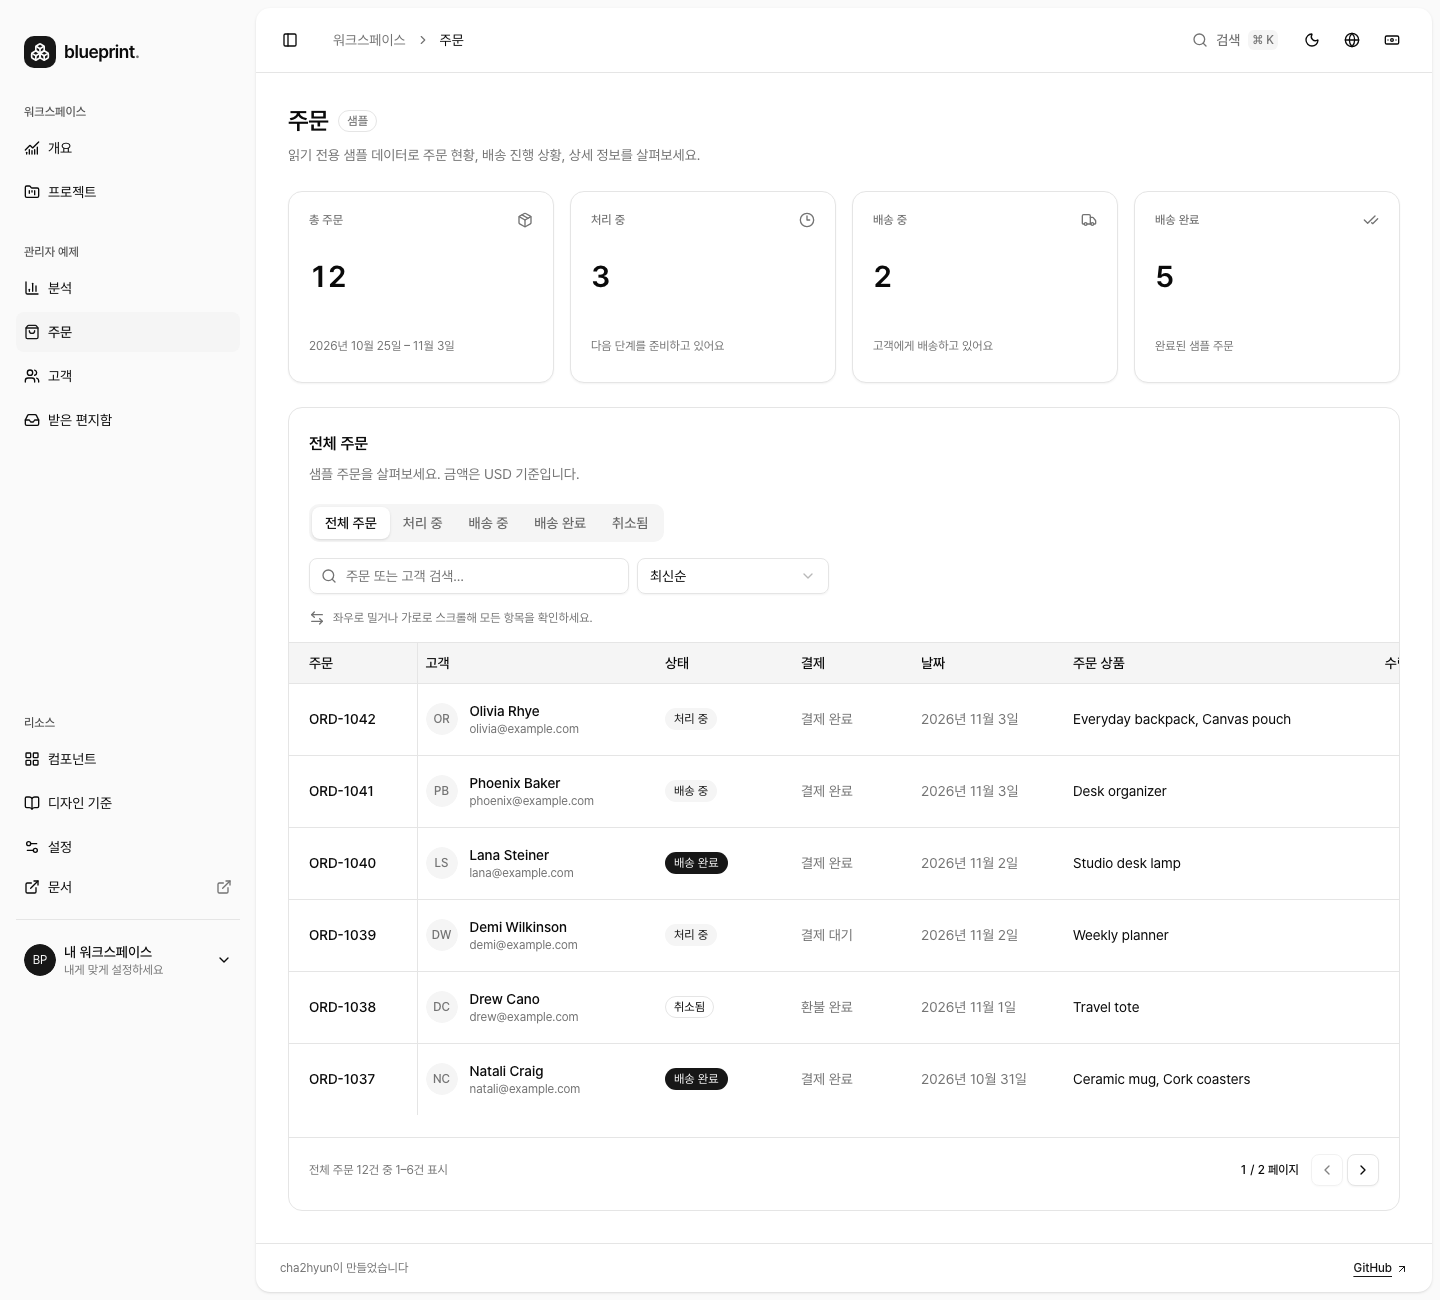
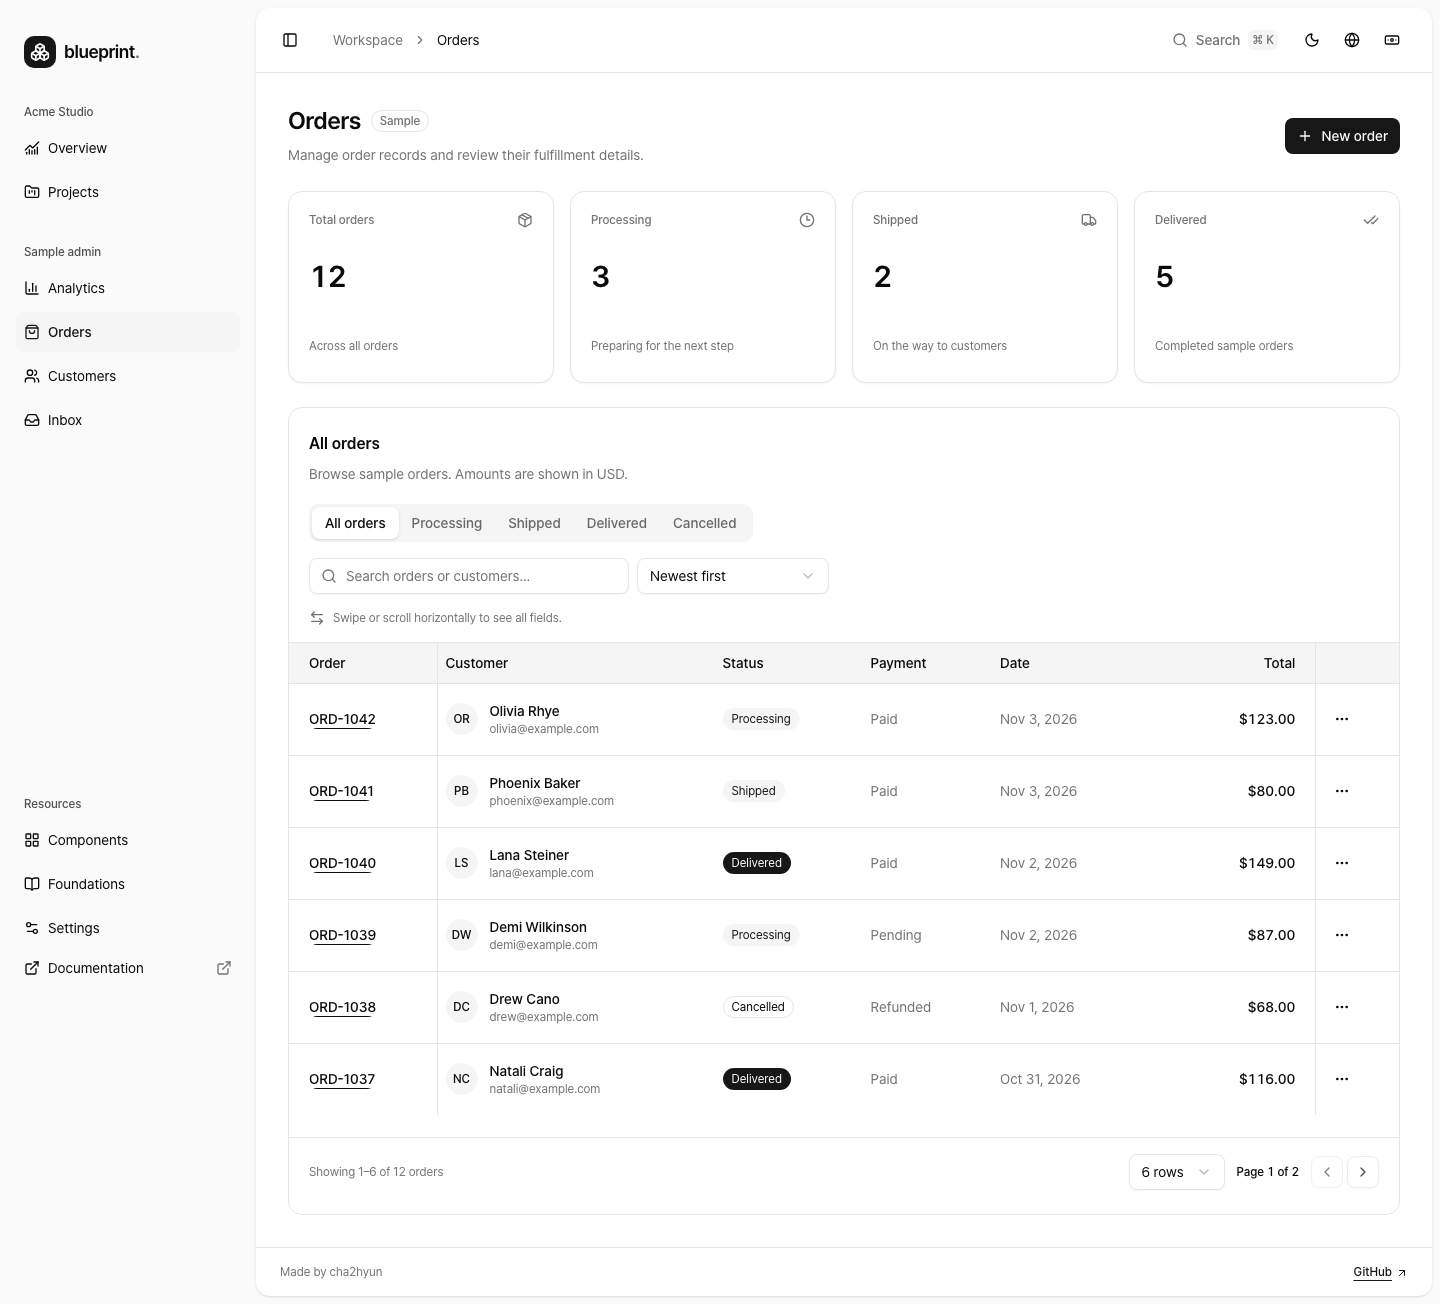
test(admin): approve reviewed visuals and record validation

diff --git a/docs/plans/blueprint-quality-improvements.md b/docs/plans/blueprint-quality-improvements.md
@@ -1,6 +1,6 @@
 # 작업 계획: 관리자 blueprint의 업무 흐름과 검증 공백 개선
 
-상태: 진행
+상태: 구현 완료. 최신 원격 통합 검증은 [PR #37의 checks](https://github.com/cha2hyun/boilerplate/pull/37/checks)를 기준으로 한다.
 
 ## 문제와 완료 조건
 
@@ -18,7 +18,7 @@
 ## 변경 경계
 
 - 영향 레이어/슬라이스: app, pages/orders·customers·overview·projects, widgets/app-shell·project-table, entities, shared UI/config/API, 검사 스크립트와 CI.
-- 공개 API/환경 변수/저장 형식 변경: 목록 응답 유일성·Traffic 정규화·불확실성 처리 강화. 기존 저장 키 값은 보존하고 구성 위치를 정리한다. 상세 ID/페이지 크기는 검증된 URL 상태로 추가한다. 추가적인 데모 업무 기록 계약은 구현과 함께 별도 기록한다.
+- 공개 API/환경 변수/저장 형식 변경: 목록 응답 유일성·Traffic 정규화·불확실성 처리 강화. 기존 저장 키 값은 보존하고 구성 위치를 정리한다. 상세 ID/페이지 크기는 검증된 URL 상태로 추가한다. 주문에는 상태·결제 변경 이력 최대 100개를 추가하며 이전 데이터의 누락 이력은 빈 배열로 해석한다. 사용자·기기 간 동기화나 신뢰할 수 있는 운영 감사 이력은 아니다.
 - 오류/빈 상태/취소/접근성 처리: 결과가 불확실한 저장 재조회, 없는 상세 ID 복구, 키보드/초점 복원, 모바일 요약 접기, 실제 차트 텍스트 대비, cold/stale/empty 응답 회귀를 포함한다.
 - 마이그레이션/롤백 (필요할 때): 저장 키 값은 바꾸지 않는다. 새로운 저장 필드는 이전 저장 데이터를 검증·복원할 수 있게 설계하며 데이터 삭제로 전환하지 않는다.
 
@@ -33,6 +33,6 @@
 ## 완료 기록
 
 - 실제 변경 동작: 차트 축 대비, 워크스페이스 이름 표시, 제품/저장 키 중앙화, 쓰기 5xx 재확인, 응답 날짜/ID 검증, 주문 변경 기록, 상세 URL/페이지 크기, 모바일 요약 접기, 표/페이지 책임 분리, guardrail const/spread 처리와 오류/빈 상태·WebKit 회귀를 구현했다.
-- 실행한 명령과 결과: 시작 원격 main CI 성공, 열린 Dependabot PR/보안 알림 0건. 통합 `pnpm check` 통과. 담당별 결함 재현용 선택 테스트·ESLint 통과. 전체 테스트·브라우저·현재 성능·소개 이미지는 PR CI 산출물에서 검증한다.
-- Actions 실행 결과 또는 미실행 사유 (로컬 전체 테스트는 기본 절차가 아님): 변경 후 PR CI 및 최신 SHA 확인 예정.
-- 남은 제약: 실제 API·인증·권한·운영 배포는 별도 제품 계약이 필요하다.
+- 실행한 명령과 결과: 시작 원격 main CI 성공, 열린 Dependabot PR/보안 알림 0건. 통합 `pnpm check` 통과. 담당별 결함 재현용 선택 테스트·ESLint 통과. `2ba2bb6` production 번들의 대표 화면 6개에서 페이지 가로 넘침·실행 오류 0건을 확인하고 소개 이미지 4개를 갱신했다. 최신 Lighthouse와 이전 main의 같은 runner 비교는 [실측 기록](../reviews/lighthouse-audit.md)에 남겼다.
+- Actions 실행 결과 또는 미실행 사유 (로컬 전체 테스트는 기본 절차가 아님): `01716fb` CI에서 전체 단위 489개·guardrail 82개 통과. 후속 `2ba2bb6`의 quality와 samples 50개가 통과했으며, core의 의도된 Orders 시각 차이는 Linux actual을 검토해 기준 이미지로 반영했다. 모바일 hidden 카드의 잘못된 치수 수집은 수정 후 동일 production artifact의 해당 2개 테스트에서 통과했다. 최종 이미지 반영 후 CI 성공 여부와 병합 SHA 검증은 PR의 최신 checks와 완료 보고에 연결한다.
+- 남은 제약: 실제 API·인증·권한·운영 배포와 서버 페이지네이션은 별도 제품 계약이 필요하다. WebKit smoke는 실제 iPhone/Safari 검증을 대신하지 않는다. 모바일 메인 스레드 비용은 Lighthouse의 단일 실험실 결과로 남기며 성능 개선을 과장하지 않는다.

diff --git a/docs/architecture.md b/docs/architecture.md
@@ -36,16 +36,16 @@ import { httpProjectAdapter } from './http'
 
 ## 상태의 소유권
 
-| 상태                            | 소유자                    | 이유                                                |
-| ------------------------------- | ------------------------- | --------------------------------------------------- |
-| 경로와 탐색                     | TanStack Router           | 새로고침/직접 링크에 일관된 진입점                  |
-| 차트 기간·검색·필터·정렬·페이지 | TanStack Router search    | Zod 검증 후 새로고침·뒤로/앞으로·직접 링크에서 복원 |
-| 원격/샘플 조회 데이터           | TanStack Query            | 캐시, 로딩/오류, 요청 취소, mutation 후 무효화      |
-| 워크스페이스 이름/compact mode  | Zustand                   | 서버와 독립적인 UI 환경 설정의 명시적 소유권        |
-| 언어·표시 통화                  | Zustand                   | 검증·저장하는 독립적인 UI 환경 설정                 |
-| USD/KRW 기준 환율               | TanStack Query            | 공개 API의 검증된 원격 데이터와 공유 캐시           |
-| light/dark/system 테마          | shadcn Vite ThemeProvider | 공식 Vite recipe 기반의 class 적용/시스템 테마 구독 |
-| 폼 입력/열린 대화상자           | 해당 컴포넌트/feature     | 수명이 짧고 다른 영역에 공개할 이유가 없음          |
+| 상태                                    | 소유자                    | 이유                                                |
+| --------------------------------------- | ------------------------- | --------------------------------------------------- |
+| 경로와 탐색                             | TanStack Router           | 새로고침/직접 링크에 일관된 진입점                  |
+| 차트 기간·검색·필터·정렬·페이지·상세 ID | TanStack Router search    | Zod 검증 후 새로고침·뒤로/앞으로·직접 링크에서 복원 |
+| 원격/샘플 조회 데이터                   | TanStack Query            | 캐시, 로딩/오류, 요청 취소, mutation 후 무효화      |
+| 워크스페이스 이름/compact mode          | Zustand                   | 서버와 독립적인 UI 환경 설정의 명시적 소유권        |
+| 언어·표시 통화                          | Zustand                   | 검증·저장하는 독립적인 UI 환경 설정                 |
+| USD/KRW 기준 환율                       | TanStack Query            | 공개 API의 검증된 원격 데이터와 공유 캐시           |
+| light/dark/system 테마                  | shadcn Vite ThemeProvider | 공식 Vite recipe 기반의 class 적용/시스템 테마 구독 |
+| 폼 입력·편집/삭제 확인창                | 해당 컴포넌트/feature     | 수명이 짧고 다른 영역에 공개할 이유가 없음          |
 
 Query 결과를 Zustand에 복제하지 않습니다. 서버 상태의 진실 공급원은 서버이며 데모에서는 API 어댑터입니다. API 응답은 Zod로 검증하고 컴포넌트에는 검증된 도메인 데이터를 전달합니다. 데이터 어댑터는 `demo`와 `api` 모드에서 같은 계약을 따릅니다. 캐시 수명·무효화·화면 갱신은 [Query 캐시](query-cache.md), 응답/페이지/정렬/저장 규칙은 [API 계약](api-contract.md)이 소유합니다.
 

diff --git a/docs/design/visual-regression.md b/docs/design/visual-regression.md
@@ -13,7 +13,7 @@
 | Analytics          | 모바일    | 한국어·dark  | 세로 KPI 배치와 긴 설명                      |
 | 프로젝트 생성 오류 | PC        | 영어·dark    | 폼·필드 오류·대화상자 액션                   |
 
-날짜와 시간대, 언어/통화/테마, 폰트 로딩, 숫자 전환 완료를 고정합니다. 목업 API의 실제 데모 경로는 유지하고 외부 환율만 기존 fixture로 고정합니다. 변동이 큰 차트 애니메이션이나 전체 페이지를 무조건 이미지로 고정하지 않습니다. 제목 크기·배지 중심·페이지 간격·cold/warm 카드 치수는 기존 DOM/행동 검사도 계속 담당합니다.
+날짜와 시간대, 언어/통화/테마, 폰트 로딩, 숫자 전환 완료를 고정합니다. 목업 API의 실제 데모 경로는 유지하고 외부 환율과 고정 버전 Pretendard CDN 파일은 기존 fixture로 제공합니다. 변동이 큰 차트 애니메이션이나 전체 페이지를 무조건 이미지로 고정하지 않습니다. 제목 크기·배지 중심·페이지 간격·cold/warm 카드 치수는 기존 DOM/행동 검사도 계속 담당합니다.
 
 ## 기준 이미지와 갱신
 
@@ -27,3 +27,7 @@
 참고: [Playwright 시각 비교](https://playwright.dev/docs/test-snapshots)는 동일 환경에서 기준 생성과 비교를 권장합니다. 현재 작은 픽셀 허용치는 렌더링 잡음용이며 배치·크기 변경의 허용 기준이 아닙니다.
 
 차트 축의 대비는 픽셀 기준과 별도로 실제 SVG computed fill을 검사합니다. `renders readable chart axes and avatar initials in both themes`가 Overview·Analytics의 축 글자가 현재 의미 토큰을 사용하는지와 카드 배경 대비를 확인합니다. 라이브러리 내부 DOM 변경으로 공통 선택자가 적용되지 않는 회귀를 포함합니다.
+
+같은 검사는 Overview·Projects의 Avatar 이니셜도 실제 computed color와 배경으로 확인합니다. 이니셜은 `muted` 배경 위 `foreground`를 사용하며, 12px 글자에서 4.5:1을 충족해야 합니다.
+
+2026-11-05 Orders 태블릿 기준은 `2ba2bb6`의 [Linux CI actual](https://github.com/cha2hyun/boilerplate/actions/runs/42036048774)에서 expected/actual/diff를 검토해 갱신했다. 핵심 7열, 오른쪽 고정 작업, 페이지 크기 선택과 결과 수, 이니셜 대비 변경을 승인했으며 필터·탭·행 높이는 유지한다. 허용 픽셀 수는 변경하지 않았다.

diff --git a/docs/testing.md b/docs/testing.md
@@ -115,7 +115,7 @@ main에는 `CI Gate`와 `Conventional PR title`을 GitHub Actions 제공 필수 
 
 ## GitHub Free 사용량
 
-2026-11-03에 확인한 GitHub 공식 문서는 공개 저장소의 **표준 GitHub-hosted runner** 사용을 무료로 안내합니다. larger runner는 이 조건에 포함되지 않습니다. 이 workflow는 표준 `ubuntu-latest`만 사용합니다. [GitHub Actions billing](https://docs.github.com/en/billing/concepts/product-billing/github-actions).
+2026-11-03에 확인한 GitHub 공식 문서는 공개 저장소의 **표준 GitHub-hosted runner** 사용을 무료로 안내합니다. larger runner는 이 조건에 포함되지 않습니다. CI는 표준 `ubuntu-latest`와 브라우저 검사용 `ubuntu-24.04`를 사용합니다. [GitHub Actions billing](https://docs.github.com/en/billing/concepts/product-billing/github-actions).
 
 비공개 저장소에 적용되는 현재 GitHub Free 기본 제공량은 **월 $12 상당 compute usage와 500 MB Actions storage**입니다. 현재 문서는 이를 고정된 분 수가 아닌 금액으로 표기하며, compute는 다른 적격 compute 사용과 공유될 수 있습니다. 실제 저장소 공개 여부, 계정 잔여 사용량이나 지출 한도는 이 코드에서 확인하거나 변경하지 않습니다. [플랜별 포함 사용량](https://docs.github.com/en/billing/reference/product-usage-included).
 
